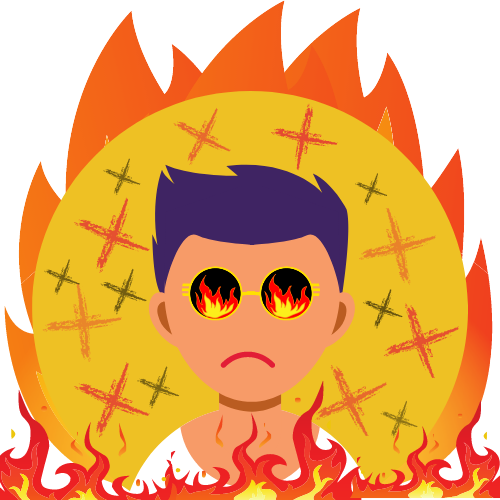
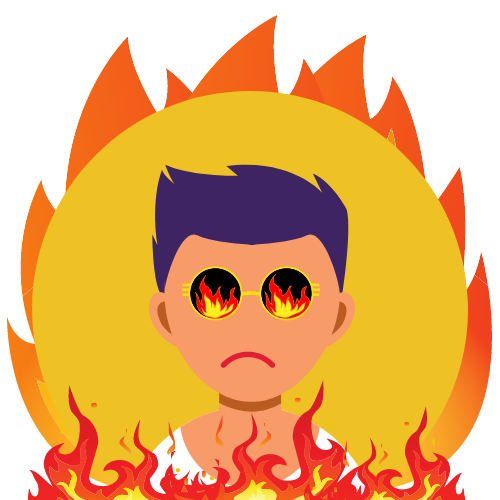
adding updated error profile image

diff --git a/public/scripts/client.js b/public/scripts/client.js
@@ -73,7 +73,7 @@ $(document).ready(function () {
       $('#short').toggle(300)
       $('#me').toggle()
       $('#error').toggle(300)
-      
+
     } else {
 
       $.ajax({
@@ -84,9 +84,9 @@ $(document).ready(function () {
         .then(loadTweets())
         .then($('#compose').show(300))
         .then($('#me').show(300))
-        .then($('#long').hide())
-        .then($('#short').hide())
-        .then($('#error').hide())
+        .then($('#long').hide(0))
+        .then($('#short').hide(0))
+        .then($('#error').hide(0))
         .then($('textarea').val(''))
         .catch(err => console.log(err))
 
